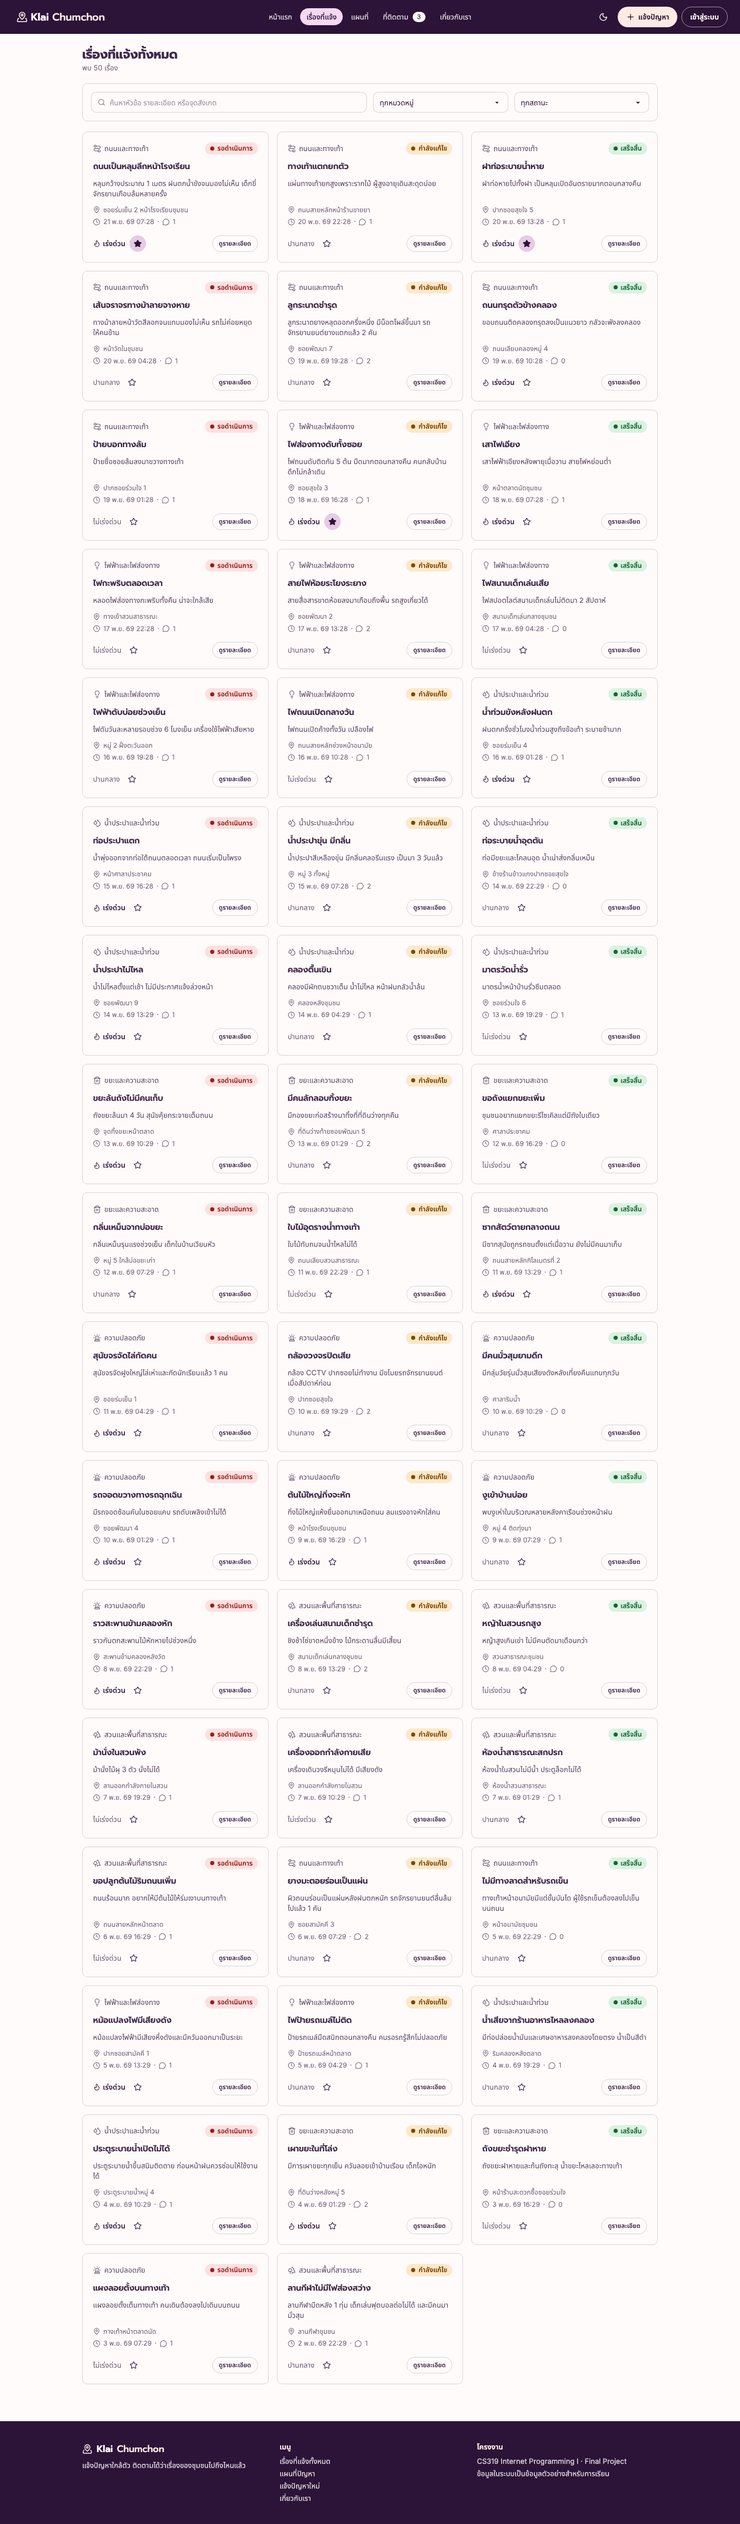
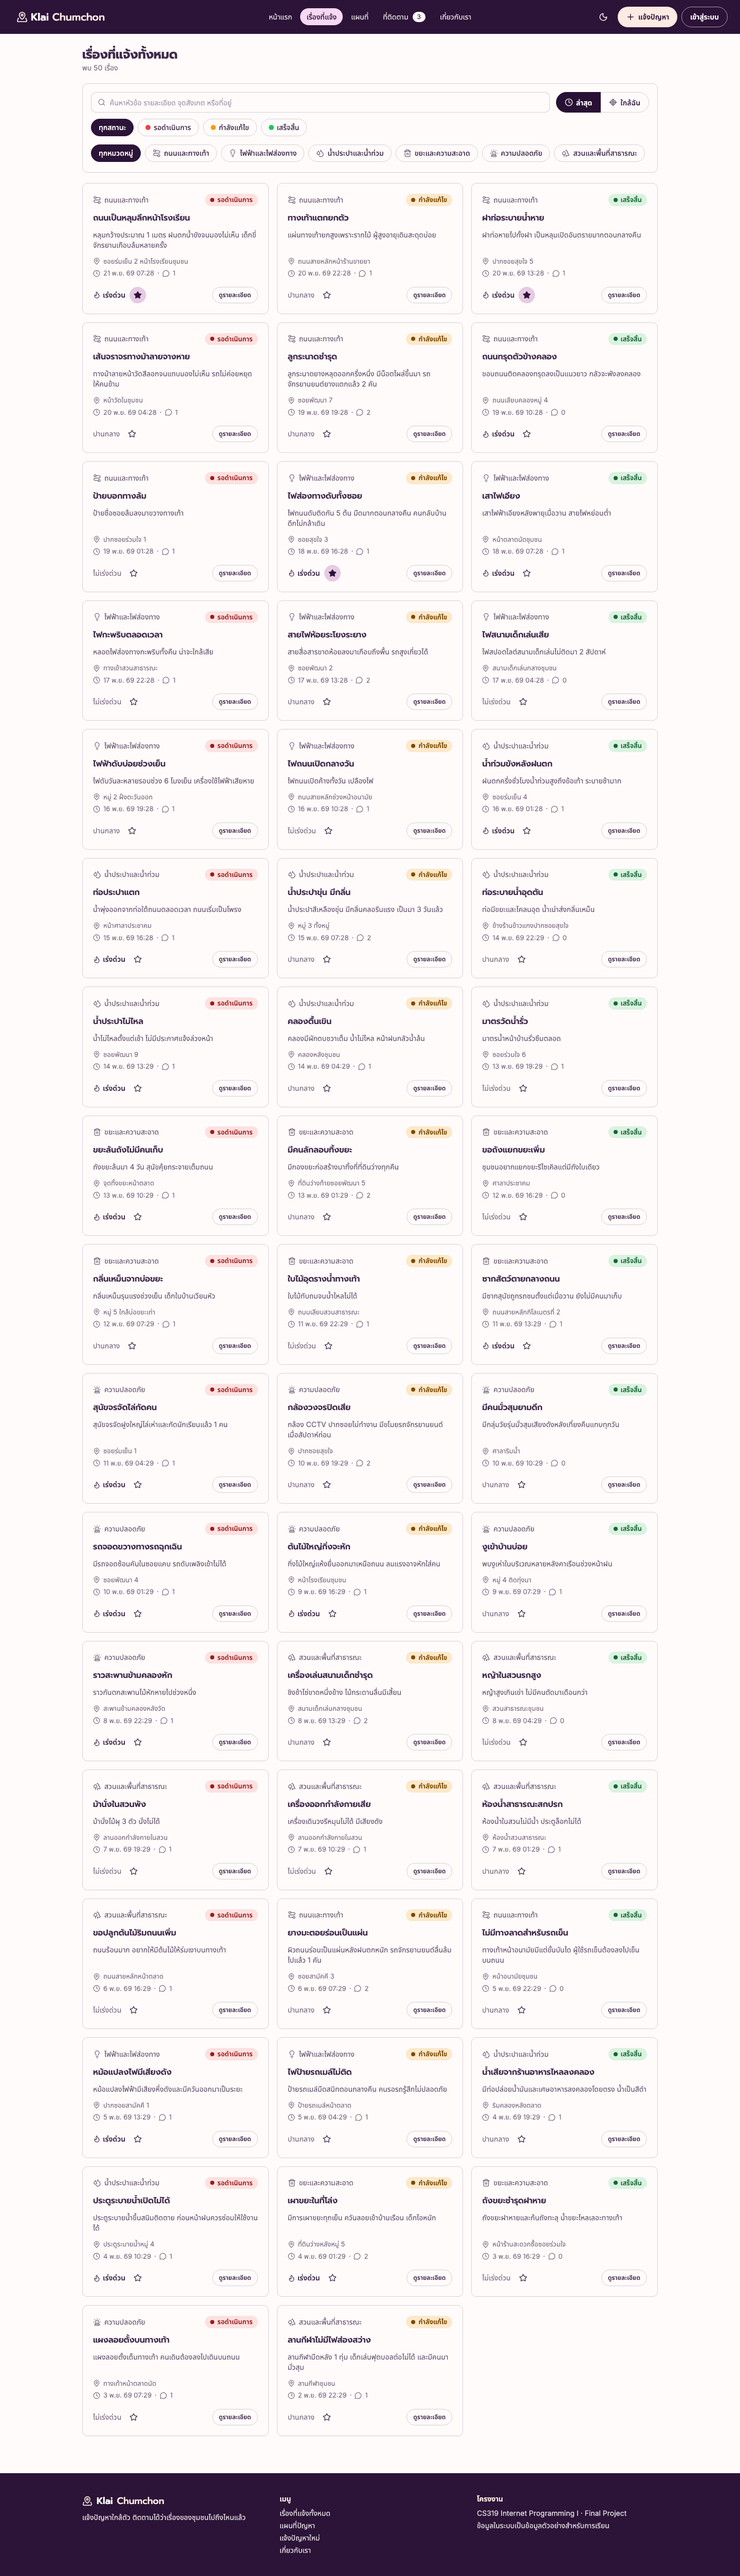
ตัวกรองแบบ pill และเรียงตามระยะ (ใกล้ฉัน) ในหน้ารายการและแผนที่

diff --git a/client/src/pages/ReportListPage.tsx b/client/src/pages/ReportListPage.tsx
@@ -1,11 +1,13 @@
-import { useEffect, useState } from "react";
-import { Search, X } from "lucide-react";
+import { useEffect, useMemo, useState } from "react";
+import { Clock, LocateFixed, Search, X } from "lucide-react";
 import { useCategories, useReports } from "../hooks/useReports";
 import { useUiStore } from "../stores/useUiStore";
 import ReportCard from "../components/ReportCard";
 import { EmptyState, ErrorAlert, GridSkeleton } from "../components/Feedback";
-import { STATUS_LABEL } from "../types";
-import type { ReportStatus } from "../types";
+import { CategoryPills, StatusPills } from "../components/FilterPills";
+import { distanceKm } from "../utils";
+
+type Sort = "latest" | "near";
 
 export default function ReportListPage() {
   const search = useUiStore((s) => s.search);
@@ -28,54 +30,102 @@ export default function ReportListPage() {
 
   const hasFilter = search !== "" || status !== "" || categoryId !== 0;
 
+  // เรียง "ใกล้ฉัน": ขอตำแหน่งจากเบราว์เซอร์ แล้วเรียงฝั่งหน้าบ้าน (ไม่ยิง API เพิ่ม)
+  const [sort, setSort] = useState<Sort>("latest");
+  const [me, setMe] = useState<{ lat: number; lng: number } | null>(null);
+  const [locating, setLocating] = useState(false);
+  const [geoError, setGeoError] = useState<string | null>(null);
+
+  function sortNear() {
+    if (me) {
+      setSort("near");
+      return;
+    }
+    if (!navigator.geolocation) {
+      setGeoError("เบราว์เซอร์นี้หาตำแหน่งไม่ได้");
+      return;
+    }
+    setLocating(true);
+    setGeoError(null);
+    navigator.geolocation.getCurrentPosition(
+      (pos) => {
+        setMe({ lat: pos.coords.latitude, lng: pos.coords.longitude });
+        setSort("near");
+        setLocating(false);
+      },
+      () => {
+        setGeoError("หาตำแหน่งไม่ได้ (อาจไม่ได้อนุญาตให้เข้าถึงตำแหน่ง) จึงเรียงตามล่าสุดแทน");
+        setSort("latest");
+        setLocating(false);
+      },
+      { enableHighAccuracy: true, timeout: 10000 }
+    );
+  }
+
+  const list = useMemo(() => {
+    const data = reports.data ?? [];
+    if (sort !== "near" || !me) return data.map((r) => ({ report: r, km: undefined as number | undefined }));
+    return data
+      .map((r) => ({ report: r, km: distanceKm(me.lat, me.lng, r.latitude, r.longitude) }))
+      .sort((a, b) => a.km - b.km);
+  }, [reports.data, sort, me]);
+
   return (
     <div className="space-y-5">
       <div>
         <h1 className="text-2xl font-bold">เรื่องที่แจ้งทั้งหมด</h1>
         <p className="text-base-content/70 text-sm">
           {reports.data ? `พบ ${reports.data.length} เรื่อง` : "กำลังโหลด..."}
+          {sort === "near" && me && " · เรียงจากใกล้ไปไกล"}
           {reports.isFetching && !reports.isLoading && <span className="loading loading-dots loading-xs ml-2" />}
         </p>
       </div>
 
       <div className="card bg-base-100 border border-base-300">
-        <div className="card-body p-4 grid grid-cols-1 md:grid-cols-4 gap-3">
-          <label className="input input-bordered w-full md:col-span-2 flex items-center gap-2">
-            <Search size={16} aria-hidden="true" className="opacity-60" />
-            <input
-              type="search"
-              className="grow"
-              placeholder="ค้นหาหัวข้อ รายละเอียด หรือจุดสังเกต"
-              aria-label="ค้นหา"
-              value={text}
-              onChange={(e) => setText(e.target.value)}
-            />
-          </label>
-          <select
-            className="select select-bordered w-full"
-            value={categoryId}
-            onChange={(e) => setCategoryId(Number(e.target.value))}
-          >
-            <option value={0}>ทุกหมวดหมู่</option>
-            {categories.data?.map((c) => (
-              <option key={c.id} value={c.id}>
-                {c.name}
-              </option>
-            ))}
-          </select>
-          <select
-            className="select select-bordered w-full"
-            value={status}
-            onChange={(e) => setStatus(e.target.value as ReportStatus | "")}
-          >
-            <option value="">ทุกสถานะ</option>
-            <option value="PENDING">{STATUS_LABEL.PENDING}</option>
-            <option value="IN_PROGRESS">{STATUS_LABEL.IN_PROGRESS}</option>
-            <option value="RESOLVED">{STATUS_LABEL.RESOLVED}</option>
-          </select>
+        <div className="card-body p-4 gap-3">
+          <div className="flex flex-col md:flex-row gap-3">
+            <label className="input input-bordered w-full flex items-center gap-2">
+              <Search size={16} aria-hidden="true" className="opacity-60" />
+              <input
+                type="search"
+                className="grow"
+                placeholder="ค้นหาหัวข้อ รายละเอียด จุดสังเกต หรือที่อยู่"
+                aria-label="ค้นหา"
+                value={text}
+                onChange={(e) => setText(e.target.value)}
+              />
+            </label>
+            <div role="group" aria-label="เรียงลำดับ" className="join shrink-0">
+              <button
+                type="button"
+                className={`btn join-item ${sort === "latest" ? "btn-neutral" : "btn-ghost border border-base-300"}`}
+                aria-pressed={sort === "latest"}
+                onClick={() => setSort("latest")}
+              >
+                <Clock size={16} aria-hidden="true" /> ล่าสุด
+              </button>
+              <button
+                type="button"
+                className={`btn join-item ${sort === "near" ? "btn-neutral" : "btn-ghost border border-base-300"}`}
+                aria-pressed={sort === "near"}
+                onClick={sortNear}
+                disabled={locating}
+              >
+                {locating ? <span className="loading loading-spinner loading-xs" /> : <LocateFixed size={16} aria-hidden="true" />}
+                ใกล้ฉัน
+              </button>
+            </div>
+          </div>
+          <StatusPills value={status} onChange={setStatus} />
+          <CategoryPills categories={categories.data} value={categoryId} onChange={setCategoryId} />
+          {geoError && (
+            <p className="text-sm text-error" role="status">
+              {geoError}
+            </p>
+          )}
           {hasFilter && (
             <button
-              className="btn btn-ghost btn-sm md:col-span-4 justify-self-start"
+              className="btn btn-ghost btn-sm self-start"
               onClick={() => {
                 clearFilters();
                 setText("");
@@ -92,8 +142,8 @@ export default function ReportListPage() {
       {reports.data && reports.data.length === 0 && <EmptyState text="ไม่พบเรื่องที่ตรงกับตัวกรอง" />}
       {reports.data && reports.data.length > 0 && (
         <div className="grid grid-cols-1 sm:grid-cols-2 lg:grid-cols-3 gap-4">
-          {reports.data.map((r) => (
-            <ReportCard key={r.id} report={r} />
+          {list.map(({ report, km }) => (
+            <ReportCard key={report.id} report={report} distanceKm={km} />
           ))}
         </div>
       )}

diff --git a/client/src/components/FilterPills.tsx b/client/src/components/FilterPills.tsx
@@ -1,0 +1,88 @@
+import type { ReactNode } from "react";
+import CategoryIcon from "./CategoryIcon";
+import { STATUS_LABEL } from "../types";
+import type { Category, ReportStatus } from "../types";
+import { STATUS_COLOR } from "../utils";
+
+// ตัวกรองแบบ pill กดครั้งเดียว (แทน dropdown) ใช้ร่วมกันในหน้ารายการและหน้าแผนที่
+
+const STATUS_LIST: ReportStatus[] = ["PENDING", "IN_PROGRESS", "RESOLVED"];
+
+function Pill({ active, onClick, children, label }: { active: boolean; onClick: () => void; children: ReactNode; label?: string }) {
+  return (
+    <button
+      type="button"
+      onClick={onClick}
+      aria-pressed={active}
+      aria-label={label}
+      className={`shrink-0 inline-flex items-center gap-1.5 rounded-full px-3.5 py-1.5 text-sm font-medium whitespace-nowrap border transition-colors ${
+        active
+          ? "bg-neutral text-neutral-content border-neutral"
+          : "bg-base-100 text-base-content border-base-300 hover:bg-secondary/60 hover:border-base-content/30"
+      }`}
+    >
+      {children}
+    </button>
+  );
+}
+
+// แถวที่เลื่อนแนวนอนได้บนมือถือ ไม่ตัดบรรทัด
+function Row({ label, children }: { label: string; children: ReactNode }) {
+  return (
+    <div role="group" aria-label={label} className="flex gap-2 overflow-x-auto pb-1 -mx-1 px-1 [scrollbar-width:thin]">
+      {children}
+    </div>
+  );
+}
+
+export function StatusPills({
+  value,
+  onChange,
+  counts,
+}: {
+  value: ReportStatus | "";
+  onChange: (s: ReportStatus | "") => void;
+  counts?: Partial<Record<ReportStatus, number>>;
+}) {
+  return (
+    <Row label="กรองตามสถานะ">
+      <Pill active={value === ""} onClick={() => onChange("")}>
+        ทุกสถานะ
+      </Pill>
+      {STATUS_LIST.map((s) => (
+        <Pill key={s} active={value === s} onClick={() => onChange(value === s ? "" : s)}>
+          <span className="inline-block w-2.5 h-2.5 rounded-full" style={{ background: STATUS_COLOR[s] }} aria-hidden="true" />
+          {STATUS_LABEL[s]}
+          {counts?.[s] !== undefined && <span className="tabular opacity-70">{counts[s]}</span>}
+        </Pill>
+      ))}
+    </Row>
+  );
+}
+
+export function CategoryPills({
+  categories,
+  value,
+  onChange,
+}: {
+  categories: Category[] | undefined;
+  value: number;
+  onChange: (id: number) => void;
+}) {
+  if (!categories) return <div className="skeleton h-9 w-full rounded-full" />;
+  return (
+    <Row label="กรองตามหมวดหมู่">
+      <Pill active={value === 0} onClick={() => onChange(0)}>
+        ทุกหมวดหมู่
+      </Pill>
+      {categories.map((c) => (
+        <Pill key={c.id} active={value === c.id} onClick={() => onChange(value === c.id ? 0 : c.id)}>
+          <span className={value === c.id ? "[&_svg]:!text-neutral-content" : ""}>
+            <CategoryIcon category={c} />
+          </span>
+          {c.name}
+        </Pill>
+      ))}
+    </Row>
+  );
+}

diff --git a/client/src/pages/MapPage.tsx b/client/src/pages/MapPage.tsx
@@ -2,11 +2,7 @@ import { useCategories, useReports } from "../hooks/useReports";
 import { useUiStore } from "../stores/useUiStore";
 import { ReportsMap } from "../components/MapView";
 import { ErrorAlert } from "../components/Feedback";
-import { STATUS_LABEL } from "../types";
-import type { ReportStatus } from "../types";
-import { STATUS_COLOR } from "../utils";
-
-const statusList: ReportStatus[] = ["PENDING", "IN_PROGRESS", "RESOLVED"];
+import { CategoryPills, StatusPills } from "../components/FilterPills";
 
 export default function MapPage() {
   // ใช้ตัวกรองชุดเดียวกับหน้ารายการ (อยู่ใน Zustand) สลับหน้าไปมาตัวกรองไม่หาย
@@ -27,41 +23,12 @@ export default function MapPage() {
             {reports.data ? `แสดง ${reports.data.length} จุด` : "กำลังโหลด..."} · คลิกหมุดเพื่อดูรายละเอียด
           </p>
         </div>
-        <div className="flex flex-wrap gap-2">
-          <select
-            className="select select-bordered select-sm"
-            value={categoryId}
-            onChange={(e) => setCategoryId(Number(e.target.value))}
-          >
-            <option value={0}>ทุกหมวดหมู่</option>
-            {categories.data?.map((c) => (
-              <option key={c.id} value={c.id}>
-                {c.name}
-              </option>
-            ))}
-          </select>
-          <select
-            className="select select-bordered select-sm"
-            value={status}
-            onChange={(e) => setStatus(e.target.value as ReportStatus | "")}
-          >
-            <option value="">ทุกสถานะ</option>
-            {statusList.map((s) => (
-              <option key={s} value={s}>
-                {STATUS_LABEL[s]}
-              </option>
-            ))}
-          </select>
-        </div>
       </div>
 
-      <div className="flex flex-wrap gap-4 text-sm">
-        {statusList.map((s) => (
-          <span key={s} className="flex items-center gap-1">
-            <span className="inline-block w-3 h-3 rounded-full" style={{ background: STATUS_COLOR[s] }} />
-            {STATUS_LABEL[s]}
-          </span>
-        ))}
+      {/* pill สถานะมีจุดสีตรงกับหมุด จึงใช้เป็นคำอธิบายสีไปในตัว */}
+      <div className="space-y-2">
+        <StatusPills value={status} onChange={setStatus} />
+        <CategoryPills categories={categories.data} value={categoryId} onChange={setCategoryId} />
       </div>
 
       {reports.isError && <ErrorAlert message={reports.error.message} onRetry={() => reports.refetch()} />}

diff --git a/client/src/components/ReportCard.tsx b/client/src/components/ReportCard.tsx
@@ -4,9 +4,10 @@ import { useUiStore } from "../stores/useUiStore";
 import { PriorityBadge, StatusBadge } from "./Badges";
 import CategoryIcon from "./CategoryIcon";
 import type { Report } from "../types";
-import { formatDate, imageSrc } from "../utils";
+import { formatDate, formatDistance, imageSrc } from "../utils";
 
-export default function ReportCard({ report }: { report: Report }) {
+// distanceKm: ระยะจากผู้ใช้ (มีเฉพาะตอนเรียงแบบ "ใกล้ฉัน")
+export default function ReportCard({ report, distanceKm }: { report: Report; distanceKm?: number }) {
   const bookmarks = useUiStore((s) => s.bookmarks);
   const toggleBookmark = useUiStore((s) => s.toggleBookmark);
   const saved = bookmarks.includes(report.id);
@@ -36,6 +37,9 @@ export default function ReportCard({ report }: { report: Report }) {
           <p className="flex items-center gap-1.5">
             <MapPin size={14} aria-hidden="true" className="shrink-0" />
             <span className="line-clamp-1">{report.location}</span>
+            {distanceKm !== undefined && (
+              <span className="shrink-0 font-semibold text-base-content tabular">· ห่าง {formatDistance(distanceKm)}</span>
+            )}
           </p>
           <p className="flex items-center gap-1.5">
             <Clock size={14} aria-hidden="true" className="shrink-0" />

diff --git a/client/src/utils.ts b/client/src/utils.ts
@@ -30,3 +30,17 @@ export function safeNext(value: string | null): string {
   if (!value || !value.startsWith("/") || value.startsWith("//") || value.includes("\\")) return "/";
   return value;
 }
+
+// ระยะทางเป็นกิโลเมตรระหว่างสองพิกัด (สูตร haversine)
+export function distanceKm(lat1: number, lng1: number, lat2: number, lng2: number): number {
+  const toRad = (d: number) => (d * Math.PI) / 180;
+  const dLat = toRad(lat2 - lat1);
+  const dLng = toRad(lng2 - lng1);
+  const a = Math.sin(dLat / 2) ** 2 + Math.cos(toRad(lat1)) * Math.cos(toRad(lat2)) * Math.sin(dLng / 2) ** 2;
+  return 6371 * 2 * Math.asin(Math.sqrt(a));
+}
+
+export function formatDistance(km: number): string {
+  if (km < 1) return `${Math.round(km * 1000)} ม.`;
+  return `${km.toFixed(1)} กม.`;
+}
